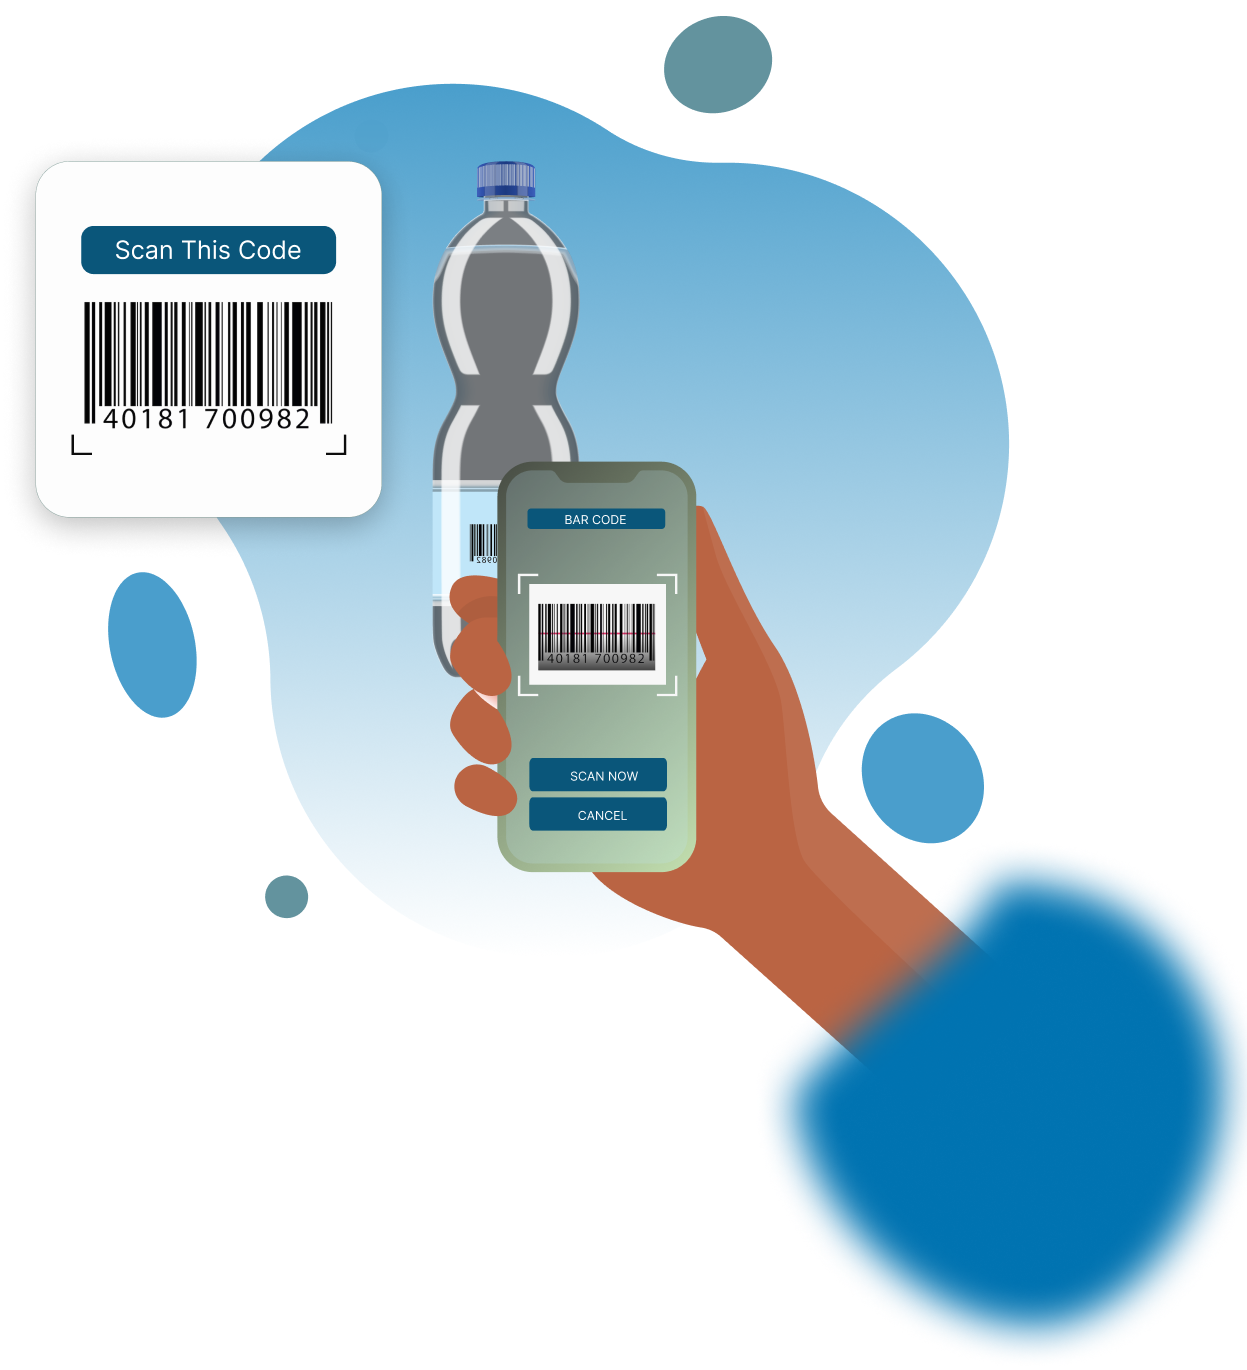
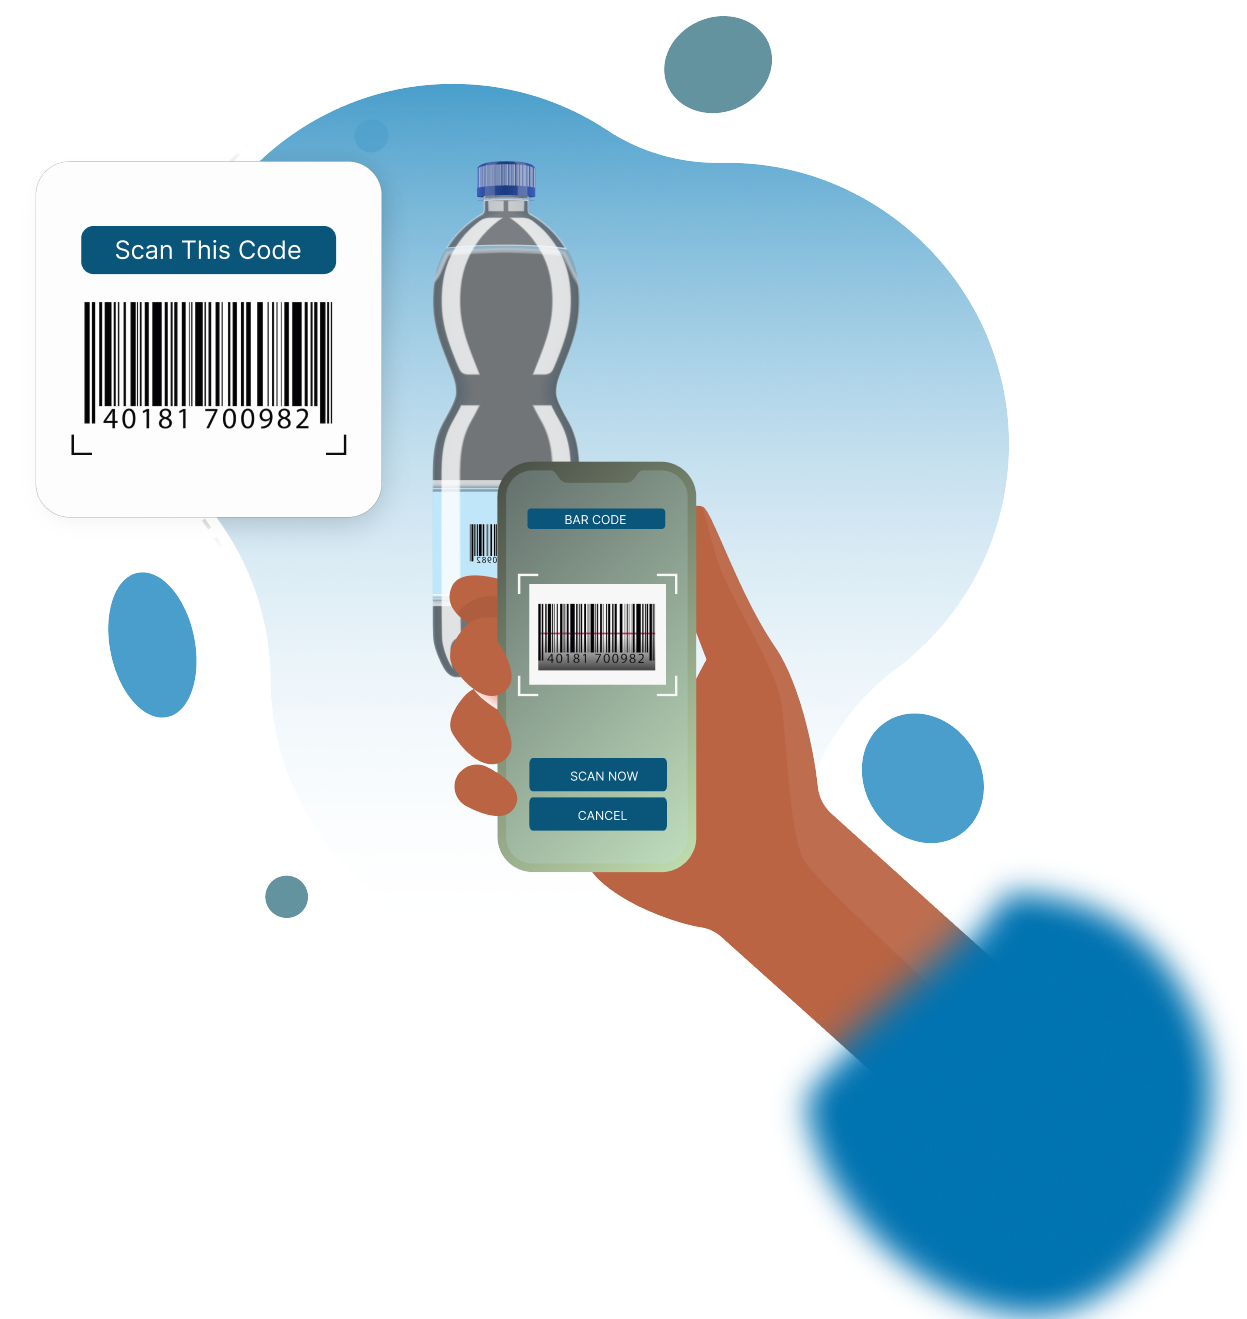
commit6

diff --git a/index.html b/index.html
@@ -88,7 +88,7 @@
                             and coupons from the hottest brands every time you recycle and track your
                             environmental impact
                             with the Cloopp App.</p>
-                        <div class="d-flex align-items-center gap-3 pt-4">
+                        <div class="d-flex align-items-center gap-3 pt-3 pt-lg-5">
                             <img src="./assets/images/appstore.png" alt="appstore" class="cursor-pointer">
                             <img src="./assets/images/googleplay.png" alt="googleplay" class="cursor-pointer">
                         </div>
@@ -102,7 +102,7 @@
 
                 </div>
             </div>
-            <img src="./assets/images/arrow.png" alt="arrow" class="arrow">
+            <img src="./assets/images/arrow.png" alt="arrow" class="arrow d-none d-lg-block">
         </header>
         <img src="./assets/images/vector.png" alt="vector" class="position-absolute bottom-p start-0 w-100">
 
@@ -150,10 +150,10 @@
     </section>
 
     <!-- Recycling-section -->
-    <section class="bg-sky pt-xl-5 d-flex align-items-center justify-content-center" id="recycling">
-        <div class="container mx-auto pe-3 ps-3 py-5">
-            <div class="row pt-xl-5 mt-5 flex-column-reverse flex-lg-row">
-                <div class="col-lg-6 pt-lg-5 d-flex align-items-center flex-column align-items-lg-start">
+    <section class="bg-blue py-lg-5 position-relative" id="recycling">
+        <div class="container mx-auto pe-3 ps-3 py-5 my-5">
+            <div class="row py-5 flex-column-reverse flex-lg-row">
+                <div class="col-lg-6  d-flex align-items-center flex-column align-items-lg-start">
                     <h2 class="ff-outfit fw-semibold fs-lg text-white text-center text-lg-start">Recycling Has Never
                         Been This Easy and Rewarding
                     </h2>
@@ -263,11 +263,12 @@
                 </div>
                 <div
                     class="col-lg-6 d-flex align-items-center justify-content-center align-items-lg-end justify-content-lg-end ">
-                    <img src="./assets/images/scanner.png" alt="scanner" class="scanner w-image ps-lg-5">
-
+                    <img src="./assets/images/scanner.png" alt="scanner" class="scanner w-100 w-image ps-lg-5"> 
                 </div>
             </div>
         </div>
+        <img src="./assets//images/wave1.png" alt="wave1" class="wave1 w-100">
+        <img src="./assets//images/wave2.png" alt="wave1" class="wave2 w-100">
     </section>
 
     <!-- fag-section -->
@@ -383,63 +384,66 @@
                                 </li>
                             </ul>
                         </div>
-                        <div class="col-4">
-                            <ul class="ps-0">
-                                <li><a href="" class="ff-outfit fw-normal fs-s text-white op-80 nav-line">Terms &
-                                        Conditions</a></li>
-                                <li class="pt-2"><a href=""
-                                        class="ff-outfit fw-normal fs-s text-white op-80 pt-2 nav-line">Privacy
-                                        Policy</a>
-                                </li>
-                            </ul>
+                        <div class="col-4 d-flex justify-content-lg-center">
+                            <div>
+                                <ul class="ps-0">
+                                    <li><a href="" class="ff-outfit fw-normal fs-s text-white op-80 nav-line">Terms &
+                                            Conditions</a></li>
+                                    <li class="pt-2"><a href=""
+                                            class="ff-outfit fw-normal fs-s text-white op-80 pt-2 nav-line">Privacy
+                                            Policy</a>
+                                    </li>
+                                </ul>
+                            </div>
                         </div>
-                        <div class="col-4">
-                            <ul class="ps-0">
-                                <li><a href="" class="ff-outfit fw-normal fs-s text-white op-80">About Us</a></li>
-
-                            </ul>
-                            <div class="d-flex gap-2 pt-3 align-items-center">
-                                <a href="https://www.instagram.com/accounts/login/">
-                                    <div class="icons">
-                                        <svg width="17" height="16" viewBox="0 0 17 16" fill="none"
-                                            xmlns="http://www.w3.org/2000/svg">
-                                            <path
-                                                d="M9.37234 1.33401C9.85883 1.33214 10.3453 1.33703 10.8317 1.34868L10.961 1.35334C11.1103 1.35868 11.2577 1.36534 11.4357 1.37334C12.145 1.40668 12.629 1.51868 13.0537 1.68334C13.4937 1.85268 13.8643 2.08201 14.235 2.45268C14.5739 2.78575 14.8362 3.18864 15.0037 3.63334C15.1683 4.05801 15.2803 4.54268 15.3137 5.25201C15.3217 5.42934 15.3283 5.57734 15.3337 5.72668L15.3377 5.85601C15.3495 6.34214 15.3546 6.82841 15.353 7.31468L15.3537 7.81201V8.68534C15.3553 9.17184 15.3502 9.65833 15.3383 10.1447L15.3343 10.274C15.329 10.4233 15.3223 10.5707 15.3143 10.7487C15.281 11.458 15.1677 11.942 15.0037 12.3667C14.8368 12.8119 14.5744 13.2151 14.235 13.548C13.9017 13.8869 13.4985 14.1492 13.0537 14.3167C12.629 14.4813 12.145 14.5933 11.4357 14.6267C11.2577 14.6347 11.1103 14.6413 10.961 14.6467L10.8317 14.6507C10.3453 14.6625 9.85884 14.6676 9.37234 14.666L8.87501 14.6667H8.00234C7.51585 14.6683 7.02936 14.6632 6.54301 14.6513L6.41368 14.6473C6.25542 14.6416 6.09719 14.6349 5.93901 14.6273C5.22968 14.594 4.74568 14.4807 4.32034 14.3167C3.87547 14.1496 3.4725 13.8872 3.13968 13.548C2.80037 13.2149 2.53783 12.8117 2.37034 12.3667C2.20568 11.942 2.09368 11.458 2.06034 10.7487C2.05292 10.5905 2.04625 10.4323 2.04034 10.274L2.03701 10.1447C2.02472 9.65833 2.01916 9.17184 2.02034 8.68534V7.31468C2.01848 6.82841 2.02337 6.34214 2.03501 5.85601L2.03968 5.72668C2.04501 5.57734 2.05168 5.42934 2.05968 5.25201C2.09301 4.54201 2.20501 4.05868 2.36968 3.63334C2.53726 3.18842 2.80032 2.78564 3.14034 2.45334C3.47294 2.11385 3.87565 1.85106 4.32034 1.68334C4.74568 1.51868 5.22901 1.40668 5.93901 1.37334L6.41368 1.35334L6.54301 1.35001C7.02913 1.33773 7.5154 1.33217 8.00168 1.33334L9.37234 1.33401ZM8.68701 4.66734C8.24535 4.6611 7.80685 4.74269 7.39699 4.90739C6.98714 5.07209 6.61411 5.3166 6.29957 5.62671C5.98504 5.93683 5.73528 6.30637 5.5648 6.71385C5.39433 7.12134 5.30654 7.55864 5.30654 8.00034C5.30654 8.44205 5.39433 8.87935 5.5648 9.28684C5.73528 9.69432 5.98504 10.0639 6.29957 10.374C6.61411 10.6841 6.98714 10.9286 7.39699 11.0933C7.80685 11.258 8.24535 11.3396 8.68701 11.3333C9.57106 11.3333 10.4189 10.9822 11.044 10.357C11.6692 9.73191 12.0203 8.88407 12.0203 8.00001C12.0203 7.11596 11.6692 6.26811 11.044 5.64299C10.4189 5.01787 9.57106 4.66734 8.68701 4.66734ZM8.68701 6.00068C8.95268 5.99578 9.21666 6.04388 9.46354 6.14215C9.71042 6.24042 9.93523 6.38691 10.1249 6.57304C10.3145 6.75918 10.4651 6.98123 10.568 7.22624C10.6708 7.47124 10.7238 7.73429 10.7239 8C10.7239 8.26572 10.671 8.52878 10.5682 8.77382C10.4655 9.01886 10.3149 9.24097 10.1253 9.42717C9.93577 9.61337 9.711 9.75992 9.46416 9.85828C9.21732 9.95664 8.95335 10.0048 8.68768 10C8.15724 10 7.64854 9.7893 7.27346 9.41422C6.89839 9.03915 6.68768 8.53044 6.68768 8.00001C6.68768 7.46958 6.89839 6.96087 7.27346 6.5858C7.64854 6.21072 8.15724 6.00001 8.68768 6.00001L8.68701 6.00068ZM12.187 3.66734C11.9719 3.67595 11.7685 3.76744 11.6194 3.92266C11.4703 4.07787 11.387 4.28477 11.387 4.50001C11.387 4.71525 11.4703 4.92215 11.6194 5.07736C11.7685 5.23258 11.9719 5.32407 12.187 5.33268C12.408 5.33268 12.62 5.24488 12.7763 5.0886C12.9325 4.93232 13.0203 4.72036 13.0203 4.49934C13.0203 4.27833 12.9325 4.06637 12.7763 3.91009C12.62 3.75381 12.408 3.66601 12.187 3.66601V3.66734Z"
-                                                fill="white" />
-                                        </svg>
-                                    </div>
-                                </a>
-                                <a href="https://www.facebook.com/">
-                                    <div class="icons">
-                                        <svg width="17" height="16" viewBox="0 0 17 16" fill="none"
-                                            xmlns="http://www.w3.org/2000/svg">
-                                            <path
-                                                d="M6.81852 14.3332H9.48519V8.99317H11.8879L12.1519 6.33984H9.48519V4.99984C9.48519 4.82303 9.55543 4.65346 9.68045 4.52843C9.80548 4.40341 9.97505 4.33317 10.1519 4.33317H12.1519V1.6665H10.1519C9.2678 1.6665 8.41996 2.01769 7.79484 2.64281C7.16971 3.26794 6.81852 4.11578 6.81852 4.99984V6.33984H5.48519L5.22119 8.99317H6.81852V14.3332Z"
-                                                fill="white" />
-                                        </svg>
-                                    </div>
-                                </a>
-                                <a
-                                    href="https://twitter.com/i/flow/login?input_flow_data=%7B%22requested_variant%22%3A%22eyJsYW5nIjoiZW4ifQ%3D%3D%22%7D">
-                                    <div class="icons">
-                                        <svg width="17" height="16" viewBox="0 0 17 16" fill="none"
-                                            xmlns="http://www.w3.org/2000/svg">
-                                            <path
-                                                d="M2.68728 1.99775C2.69744 2.01299 3.81209 3.63799 5.16541 5.60576C6.51619 7.57354 7.62322 9.18838 7.62322 9.19346C7.62322 9.19854 3.05545 14.5179 2.70252 14.9216C2.66697 14.9647 2.6949 14.9673 3.24588 14.9673H3.82986L5.98806 12.4562L8.14881 9.94756L9.87283 12.4562L11.5969 14.9673H13.5088C15.0322 14.9673 15.4181 14.9597 15.4004 14.9343C15.3902 14.919 14.2426 13.2433 12.8486 11.2146C11.4521 9.18584 10.307 7.5126 10.2994 7.49482C10.2892 7.46436 10.9062 6.74072 14.1664 2.9499L15.0144 1.96729H14.4304H13.8465L11.8076 4.33877C10.6853 5.64131 9.76111 6.70518 9.75349 6.7001C9.74588 6.69756 9.00955 5.62861 8.1158 4.33115L6.49334 1.96729H4.58142C3.10623 1.96729 2.67459 1.9749 2.68728 1.99775ZM9.79412 8.35811C11.9168 11.3974 13.6967 13.944 13.75 14.0202L13.8465 14.1548H13.001L12.1554 14.1522L8.29607 8.62979C6.17341 5.59053 4.39353 3.04385 4.34021 2.96768L4.24119 2.83057H5.08924L5.93474 2.83311L9.79412 8.35811Z"
-                                                fill="white" />
-                                        </svg>
-                                    </div>
-                                </a>
-                                <a href="https://telegram.org/">
-                                    <div class="icons">
-                                        <svg width="17" height="16" viewBox="0 0 17 16" fill="none"
-                                            xmlns="http://www.w3.org/2000/svg">
-                                            <path
-                                                d="M15.6465 3.08151L13.534 13.044C13.3745 13.747 12.959 13.922 12.3685 13.591L9.14952 11.219L7.59652 12.713C7.42452 12.885 7.28102 13.0285 6.94952 13.0285L7.18102 9.75051L13.1465 4.36001C13.406 4.12901 13.09 4.00051 12.7435 4.23201L5.36852 8.87601L2.19352 7.88201C1.50302 7.66651 1.49052 7.19151 2.33752 6.86001L14.756 2.07551C15.331 1.86001 15.834 2.20301 15.6465 3.08151Z"
-                                                fill="white" />
-                                        </svg>
-                                    </div>
-                                </a>
+                        <div class="col-4 d-flex  justify-content-lg-end">
+                            <div>
+                                <ul class="ps-0">
+                                    <li><a href="" class="ff-outfit fw-normal fs-s text-white op-80">About Us</a></li>
+                                </ul>
+                                <div class="d-flex gap-2 pt-3 align-items-center">
+                                    <a href="https://www.instagram.com/accounts/login/">
+                                        <div class="icons">
+                                            <svg width="17" height="16" viewBox="0 0 17 16" fill="none"
+                                                xmlns="http://www.w3.org/2000/svg">
+                                                <path
+                                                    d="M9.37234 1.33401C9.85883 1.33214 10.3453 1.33703 10.8317 1.34868L10.961 1.35334C11.1103 1.35868 11.2577 1.36534 11.4357 1.37334C12.145 1.40668 12.629 1.51868 13.0537 1.68334C13.4937 1.85268 13.8643 2.08201 14.235 2.45268C14.5739 2.78575 14.8362 3.18864 15.0037 3.63334C15.1683 4.05801 15.2803 4.54268 15.3137 5.25201C15.3217 5.42934 15.3283 5.57734 15.3337 5.72668L15.3377 5.85601C15.3495 6.34214 15.3546 6.82841 15.353 7.31468L15.3537 7.81201V8.68534C15.3553 9.17184 15.3502 9.65833 15.3383 10.1447L15.3343 10.274C15.329 10.4233 15.3223 10.5707 15.3143 10.7487C15.281 11.458 15.1677 11.942 15.0037 12.3667C14.8368 12.8119 14.5744 13.2151 14.235 13.548C13.9017 13.8869 13.4985 14.1492 13.0537 14.3167C12.629 14.4813 12.145 14.5933 11.4357 14.6267C11.2577 14.6347 11.1103 14.6413 10.961 14.6467L10.8317 14.6507C10.3453 14.6625 9.85884 14.6676 9.37234 14.666L8.87501 14.6667H8.00234C7.51585 14.6683 7.02936 14.6632 6.54301 14.6513L6.41368 14.6473C6.25542 14.6416 6.09719 14.6349 5.93901 14.6273C5.22968 14.594 4.74568 14.4807 4.32034 14.3167C3.87547 14.1496 3.4725 13.8872 3.13968 13.548C2.80037 13.2149 2.53783 12.8117 2.37034 12.3667C2.20568 11.942 2.09368 11.458 2.06034 10.7487C2.05292 10.5905 2.04625 10.4323 2.04034 10.274L2.03701 10.1447C2.02472 9.65833 2.01916 9.17184 2.02034 8.68534V7.31468C2.01848 6.82841 2.02337 6.34214 2.03501 5.85601L2.03968 5.72668C2.04501 5.57734 2.05168 5.42934 2.05968 5.25201C2.09301 4.54201 2.20501 4.05868 2.36968 3.63334C2.53726 3.18842 2.80032 2.78564 3.14034 2.45334C3.47294 2.11385 3.87565 1.85106 4.32034 1.68334C4.74568 1.51868 5.22901 1.40668 5.93901 1.37334L6.41368 1.35334L6.54301 1.35001C7.02913 1.33773 7.5154 1.33217 8.00168 1.33334L9.37234 1.33401ZM8.68701 4.66734C8.24535 4.6611 7.80685 4.74269 7.39699 4.90739C6.98714 5.07209 6.61411 5.3166 6.29957 5.62671C5.98504 5.93683 5.73528 6.30637 5.5648 6.71385C5.39433 7.12134 5.30654 7.55864 5.30654 8.00034C5.30654 8.44205 5.39433 8.87935 5.5648 9.28684C5.73528 9.69432 5.98504 10.0639 6.29957 10.374C6.61411 10.6841 6.98714 10.9286 7.39699 11.0933C7.80685 11.258 8.24535 11.3396 8.68701 11.3333C9.57106 11.3333 10.4189 10.9822 11.044 10.357C11.6692 9.73191 12.0203 8.88407 12.0203 8.00001C12.0203 7.11596 11.6692 6.26811 11.044 5.64299C10.4189 5.01787 9.57106 4.66734 8.68701 4.66734ZM8.68701 6.00068C8.95268 5.99578 9.21666 6.04388 9.46354 6.14215C9.71042 6.24042 9.93523 6.38691 10.1249 6.57304C10.3145 6.75918 10.4651 6.98123 10.568 7.22624C10.6708 7.47124 10.7238 7.73429 10.7239 8C10.7239 8.26572 10.671 8.52878 10.5682 8.77382C10.4655 9.01886 10.3149 9.24097 10.1253 9.42717C9.93577 9.61337 9.711 9.75992 9.46416 9.85828C9.21732 9.95664 8.95335 10.0048 8.68768 10C8.15724 10 7.64854 9.7893 7.27346 9.41422C6.89839 9.03915 6.68768 8.53044 6.68768 8.00001C6.68768 7.46958 6.89839 6.96087 7.27346 6.5858C7.64854 6.21072 8.15724 6.00001 8.68768 6.00001L8.68701 6.00068ZM12.187 3.66734C11.9719 3.67595 11.7685 3.76744 11.6194 3.92266C11.4703 4.07787 11.387 4.28477 11.387 4.50001C11.387 4.71525 11.4703 4.92215 11.6194 5.07736C11.7685 5.23258 11.9719 5.32407 12.187 5.33268C12.408 5.33268 12.62 5.24488 12.7763 5.0886C12.9325 4.93232 13.0203 4.72036 13.0203 4.49934C13.0203 4.27833 12.9325 4.06637 12.7763 3.91009C12.62 3.75381 12.408 3.66601 12.187 3.66601V3.66734Z"
+                                                    fill="white" />
+                                            </svg>
+                                        </div>
+                                    </a>
+                                    <a href="https://www.facebook.com/">
+                                        <div class="icons">
+                                            <svg width="17" height="16" viewBox="0 0 17 16" fill="none"
+                                                xmlns="http://www.w3.org/2000/svg">
+                                                <path
+                                                    d="M6.81852 14.3332H9.48519V8.99317H11.8879L12.1519 6.33984H9.48519V4.99984C9.48519 4.82303 9.55543 4.65346 9.68045 4.52843C9.80548 4.40341 9.97505 4.33317 10.1519 4.33317H12.1519V1.6665H10.1519C9.2678 1.6665 8.41996 2.01769 7.79484 2.64281C7.16971 3.26794 6.81852 4.11578 6.81852 4.99984V6.33984H5.48519L5.22119 8.99317H6.81852V14.3332Z"
+                                                    fill="white" />
+                                            </svg>
+                                        </div>
+                                    </a>
+                                    <a
+                                        href="https://twitter.com/i/flow/login?input_flow_data=%7B%22requested_variant%22%3A%22eyJsYW5nIjoiZW4ifQ%3D%3D%22%7D">
+                                        <div class="icons">
+                                            <svg width="17" height="16" viewBox="0 0 17 16" fill="none"
+                                                xmlns="http://www.w3.org/2000/svg">
+                                                <path
+                                                    d="M2.68728 1.99775C2.69744 2.01299 3.81209 3.63799 5.16541 5.60576C6.51619 7.57354 7.62322 9.18838 7.62322 9.19346C7.62322 9.19854 3.05545 14.5179 2.70252 14.9216C2.66697 14.9647 2.6949 14.9673 3.24588 14.9673H3.82986L5.98806 12.4562L8.14881 9.94756L9.87283 12.4562L11.5969 14.9673H13.5088C15.0322 14.9673 15.4181 14.9597 15.4004 14.9343C15.3902 14.919 14.2426 13.2433 12.8486 11.2146C11.4521 9.18584 10.307 7.5126 10.2994 7.49482C10.2892 7.46436 10.9062 6.74072 14.1664 2.9499L15.0144 1.96729H14.4304H13.8465L11.8076 4.33877C10.6853 5.64131 9.76111 6.70518 9.75349 6.7001C9.74588 6.69756 9.00955 5.62861 8.1158 4.33115L6.49334 1.96729H4.58142C3.10623 1.96729 2.67459 1.9749 2.68728 1.99775ZM9.79412 8.35811C11.9168 11.3974 13.6967 13.944 13.75 14.0202L13.8465 14.1548H13.001L12.1554 14.1522L8.29607 8.62979C6.17341 5.59053 4.39353 3.04385 4.34021 2.96768L4.24119 2.83057H5.08924L5.93474 2.83311L9.79412 8.35811Z"
+                                                    fill="white" />
+                                            </svg>
+                                        </div>
+                                    </a>
+                                    <a href="https://telegram.org/">
+                                        <div class="icons">
+                                            <svg width="17" height="16" viewBox="0 0 17 16" fill="none"
+                                                xmlns="http://www.w3.org/2000/svg">
+                                                <path
+                                                    d="M15.6465 3.08151L13.534 13.044C13.3745 13.747 12.959 13.922 12.3685 13.591L9.14952 11.219L7.59652 12.713C7.42452 12.885 7.28102 13.0285 6.94952 13.0285L7.18102 9.75051L13.1465 4.36001C13.406 4.12901 13.09 4.00051 12.7435 4.23201L5.36852 8.87601L2.19352 7.88201C1.50302 7.66651 1.49052 7.19151 2.33752 6.86001L14.756 2.07551C15.331 1.86001 15.834 2.20301 15.6465 3.08151Z"
+                                                    fill="white" />
+                                            </svg>
+                                        </div>
+                                    </a>
+                                </div>
                             </div>
                         </div>
                     </div>

diff --git a/assets/css/style.css b/assets/css/style.css
@@ -165,7 +165,6 @@
 
 .w-img {
     max-width: 560px;
-    height: 570px;
 }
 
 .min-vh-header {
@@ -214,7 +213,6 @@
 
 .phnimg {
     width: 357.38px;
-    height: 465px;
 }
 
 .circle {
@@ -516,6 +514,16 @@
     border: 3px solid var(--blue);
 }
 
+.wave1 {
+    position: absolute;
+    top: -3%;
+    left: 0;
+}
+.wave2 {
+    position: absolute;
+    bottom: -3%;
+    left: 0;
+}
 
 
 @media (max-width: 992px) {
@@ -618,7 +626,6 @@
 
     .scanner {
         width: 593.27px;
-        height: 662.97px;
     }
 }
 
